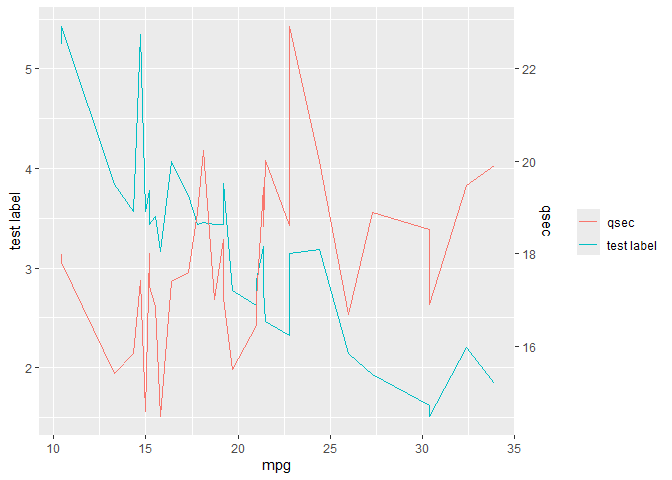
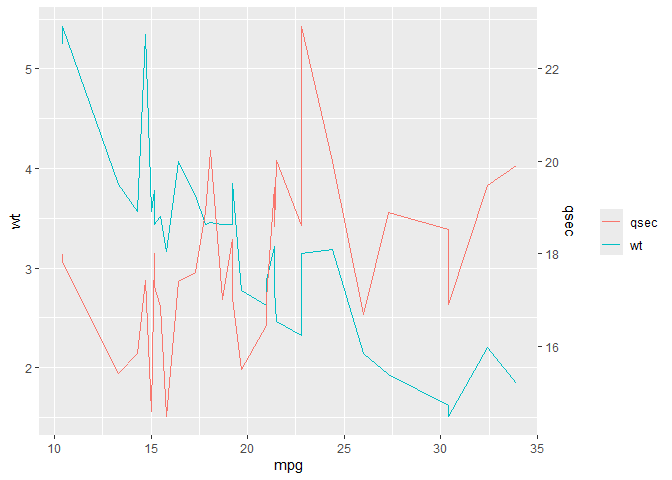
update README

diff --git a/README.md b/README.md
@@ -44,11 +44,19 @@ mtcars |>
 
 <img src="man/figures/README-ggplot-example-1.png" width="100%" />
 
+This produces an elegant visualization. However, in some cases we might
+want to compare two variables with different scales more easily. This
+requires scaling of one of the variables to fit the scale of the other
+variable. This is possible with ggplot2, but it requires some additional
+steps and calculations. This is where the `daplot` function comes in
+handy. It provides a simplified interface for creating dual-axis plots
+without the need for manual scaling.
+
 ``` r
 library(daplot)
 
 mtcars |> 
-  daplot(mpg, wt, qsec, y1_label = "test label")
+  daplot(mpg, wt, qsec)
 ```
 
 <img src="man/figures/README-example-1.png" width="100%" />
